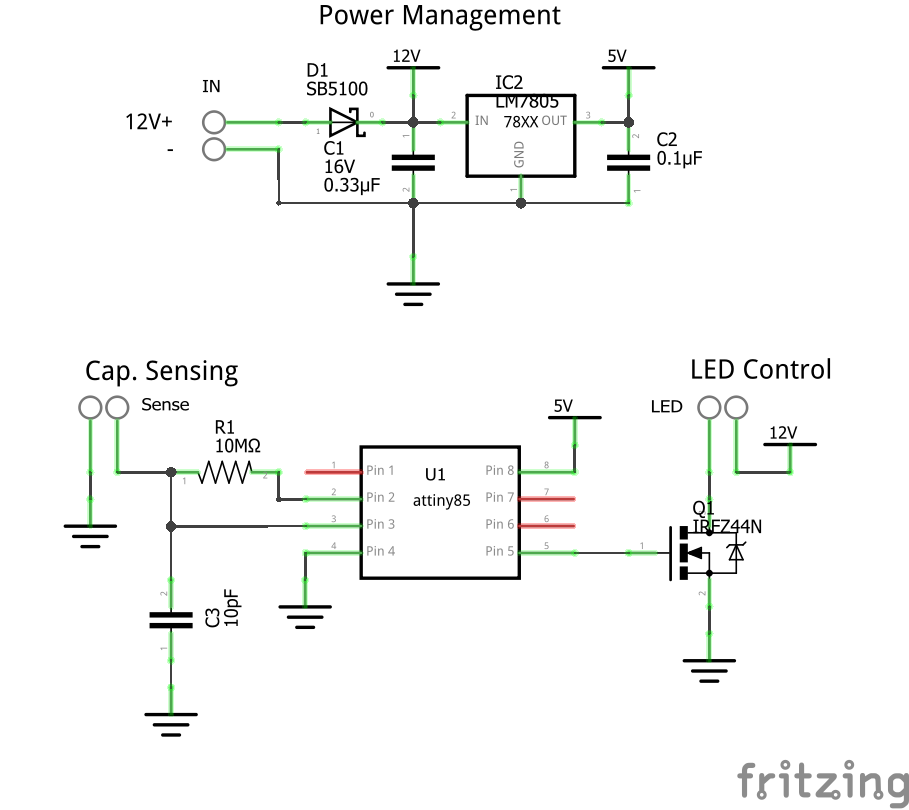
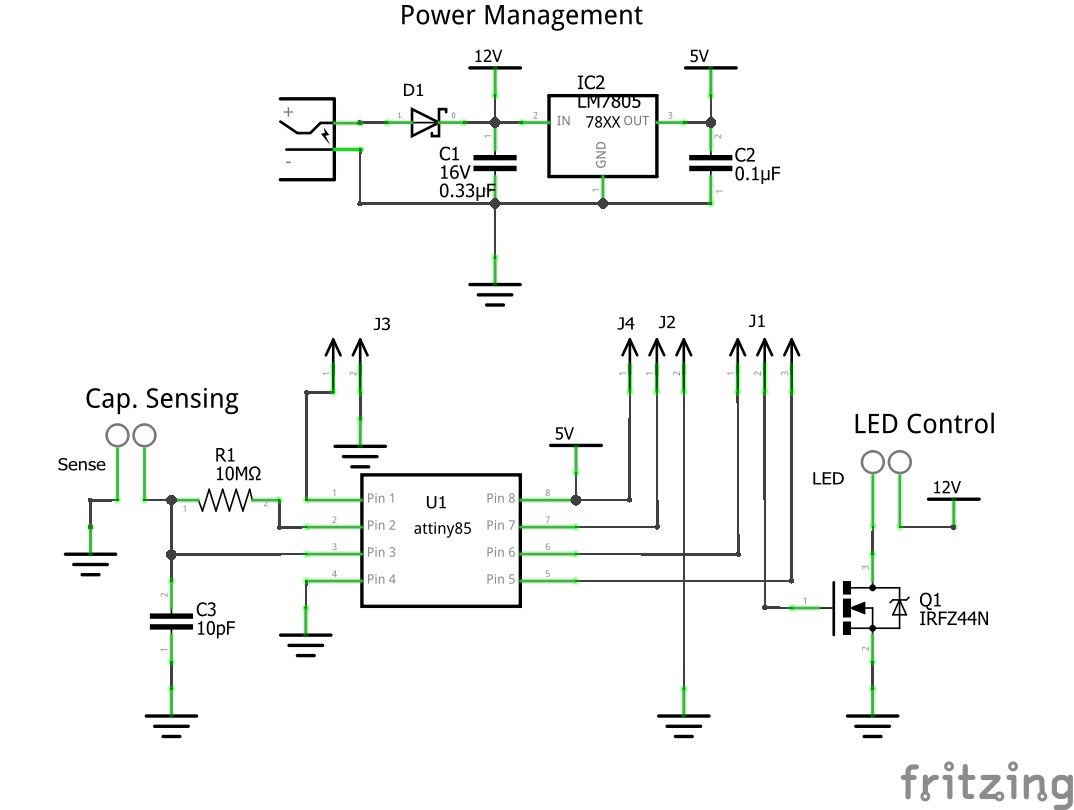
Use bigger connectors, add plugin-ins

diff --git a/README.md b/README.md
@@ -4,3 +4,25 @@
 ![Schema](schema/BedLed_schem.png)
 
 ![PCB](schema/BedLed_pcb.png)
+
+## Parts
+R1 - 10MΩ
+C1 - 16V, 0.33µF
+C2 - 5V, 0.1µF
+C3 - 5v, 10pF
+Q1 - IRFZ44N
+U1 - ATtiny85
+
+J1 - Jumper options:
+- 1-2: Pin 6 (PB1) connected to Q1 gate
+- 2-2: Pin 5 (PB0) connected to Q1 gate
+
+Connector pins:
+J1, 1 - Pin 6 (PB1, MISO)
+J1, 2 - Q1 gate
+J1, 3 - Pin 5 (PB0, MOSI)
+J2, 1 - Pin 7 (PB2, SCK)
+J2, 2 - GND
+J3, 1 - Pin 1 (!RESET)
+J3, 2 - GND
+J4, 1 - VCC (5V)
